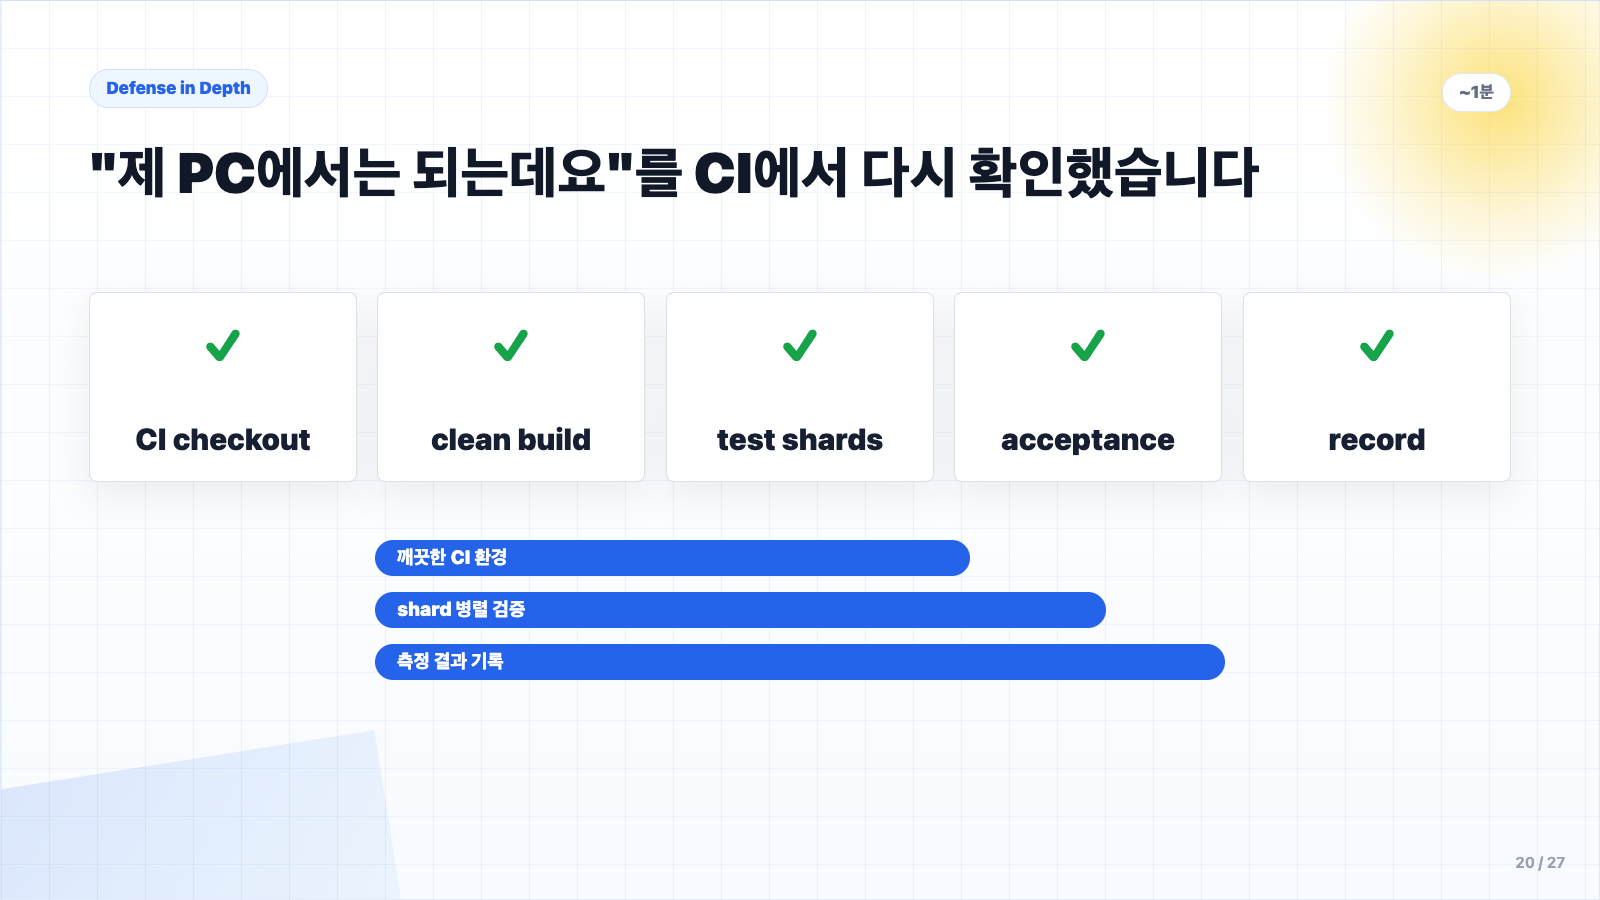
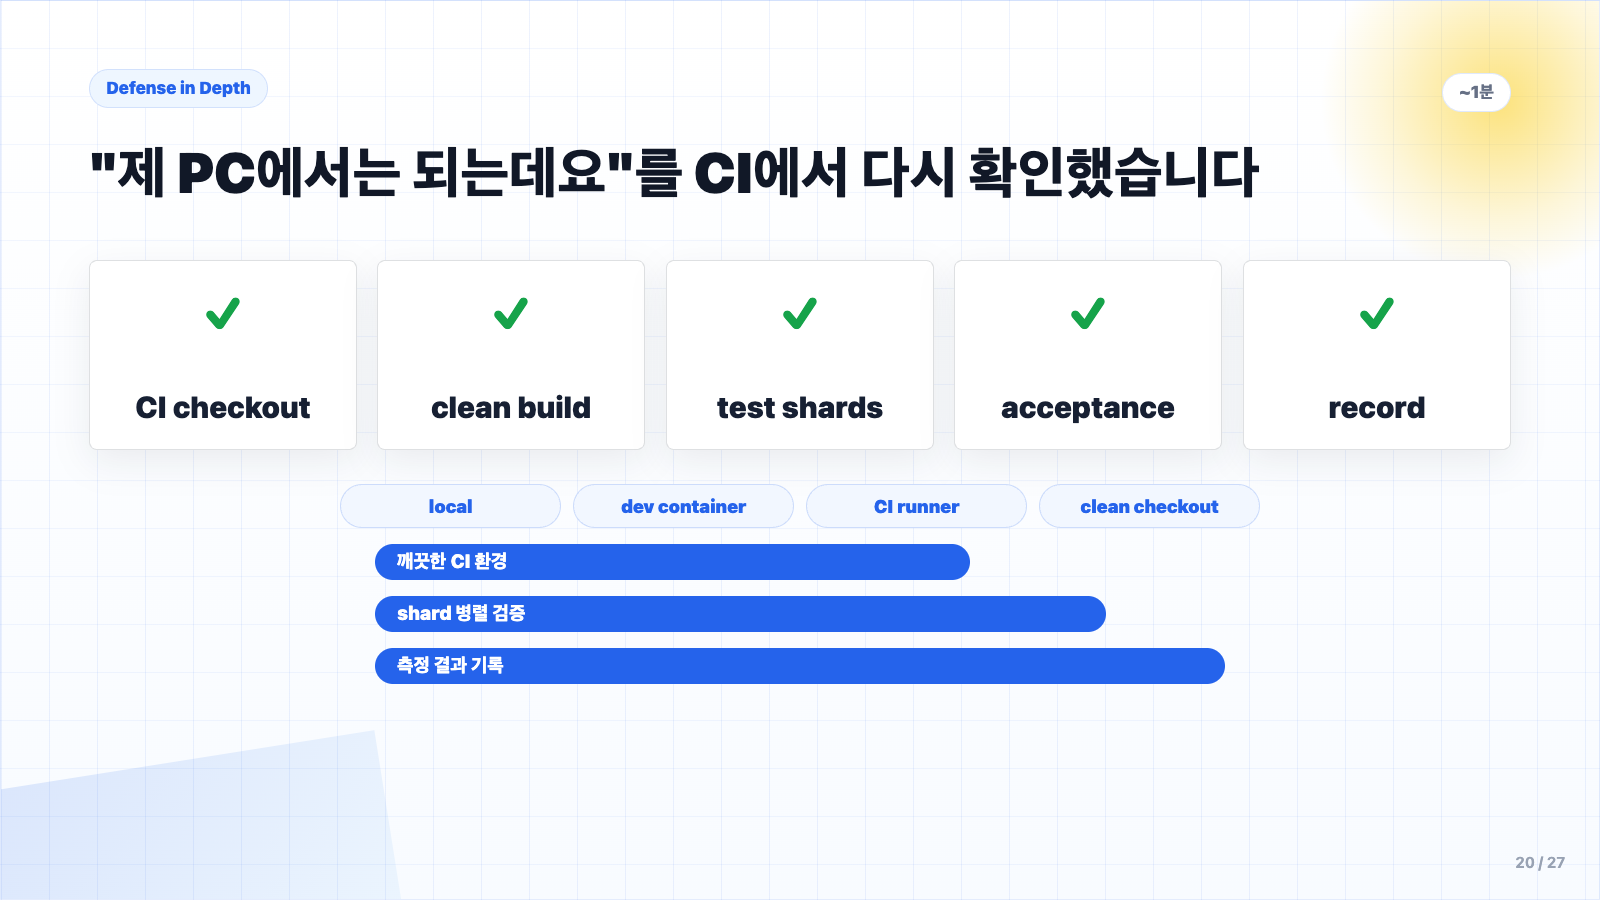
Add environment coverage labels to slide 20

diff --git a/index.html b/index.html
@@ -1016,6 +1016,28 @@ body .deck .slide[data-slide="4"] .slide-inner > p.lead{
   .saving-card{opacity:1!important;transform:none!important}
 }
 
+.slide[data-slide="20"] .defense-visual{margin-top:58px!important}
+.env-coverage{
+  width:920px;
+  margin:34px auto 16px;
+  display:grid;
+  grid-template-columns:repeat(4,1fr);
+  gap:12px;
+}
+.env-coverage span{
+  height:44px;
+  border-radius:999px;
+  border:1px solid rgba(37,99,235,.18);
+  background:#f2f7ff;
+  color:#2563eb;
+  display:flex;
+  align-items:center;
+  justify-content:center;
+  font-size:18px;
+  font-weight:1000;
+}
+.slide[data-slide="20"] .defense-bars{margin-top:0!important}
+
 .meme-ref{display:none!important;background:#fff!important}
 .slide.meme-prelude-on .slide-inner > :not(.meme-ref){opacity:0!important;pointer-events:none!important}
 .slide.meme-prelude-on .meme-ref{
@@ -1315,6 +1337,7 @@ AI와 함께한 리팩토링</h1>
 <div class="defense-visual">
 <div class="env-node">CI checkout</div><div class="env-node">clean build</div><div class="env-node">test shards</div><div class="env-node">acceptance</div><div class="env-node">record</div>
 </div>
+<div class="env-coverage"><span>local</span><span>dev container</span><span>CI runner</span><span>clean checkout</span></div>
 <div class="defense-bars"><div style="width:70%">깨끗한 CI 환경</div><div style="width:86%">shard 병렬 검증</div><div style="width:100%">측정 결과 기록</div></div>
 <div class="footer">←/→ 또는 Space 이동 | N 노트 | F 전체화면 | P 인쇄/PDF</div><div class="page">20 / 27</div><aside class="notes">로컬에서만 통과하는 테스트로는 부족했습니다. 그래서 CI의 깨끗한 checkout 환경에서 clean build, test shard, acceptance를 다시 돌리고, 그 결과를 기록했습니다.</aside></div></section><section class="slide" data-slide="21"><div class="slide-inner"><div class="label">Failure Header</div><div class="time">~1.5분</div><h1>사용자에겐 조용히, 검증에겐 크게 말하게 했습니다</h1>
 <div class="header-visual">
@@ -1398,7 +1421,7 @@ function prepareAnimations(){
     assignAnimGroup(slide, '.large-x-card,.legacy-path,.prod-side,.skill-box,.actor:not(.ai)', 'fade-left', 320, 90);
     assignAnimGroup(slide, '.large-o-card,.fig-path,.accept-side,.rule-box,.actor.ai', 'fade-right', 360, 90);
     assignAnimGroup(slide, '.center-hex,.big-number,.compare-hub,.risk-quote', 'zoom-pop', 330, 80);
-    assignAnimGroup(slide, '.svc,.goal-card,.lane,.green-code,.danger-questions > div,.rail-diagram > *,.dot-matrix,.flow-chip,.family-card,.status-card,.gate-strip span,.check-node,.staged-records div,.chain-node,.evidence-tests span,.report-doc,.path,.architecture-strip span,.allowed-zone,.guard-zone,.blocked-zone,.p-level,.timer-heavy,.risk-note,.calc-process div,.shard-grid div,.env-node,.defense-bars div,.mini-tags span,.loop-item,.phase,.metric,.risk-flow div,.risk-flow span,.open-problems div,.closing-road div,.closing-lines div,.insight-card,.keyword-strip span,.doc-node,.doc-panel,.doc-map-card,.doc-item,.doc-rule-item,.doc-gate-row,.fake-code span,.mini-steps span,.evidence-stack div,.ice-option,.poll-card,.ice-note,.gift-badge,.meme-ref', 'fade-up', 280, 38);
+    assignAnimGroup(slide, '.svc,.goal-card,.lane,.green-code,.danger-questions > div,.rail-diagram > *,.dot-matrix,.flow-chip,.family-card,.status-card,.gate-strip span,.check-node,.staged-records div,.chain-node,.evidence-tests span,.report-doc,.path,.architecture-strip span,.allowed-zone,.guard-zone,.blocked-zone,.p-level,.timer-heavy,.risk-note,.calc-process div,.shard-grid div,.env-node,.env-coverage span,.defense-bars div,.mini-tags span,.loop-item,.phase,.metric,.risk-flow div,.risk-flow span,.open-problems div,.closing-road div,.closing-lines div,.insight-card,.keyword-strip span,.doc-node,.doc-panel,.doc-map-card,.doc-item,.doc-rule-item,.doc-gate-row,.fake-code span,.mini-steps span,.evidence-stack div,.ice-option,.poll-card,.ice-note,.gift-badge,.meme-ref', 'fade-up', 280, 38);
     assignAnimGroup(slide, '.arrow-inline,.mini-arrow,.link,.split-symbol,.header-arrow', 'fade-up', 430, 70);
     assignAnimGroup(slide, '.service-lines', 'path-draw', 420, 0);
     assignAnimGroup(slide, '.bottom-callout', 'drop-in', 520, 0);